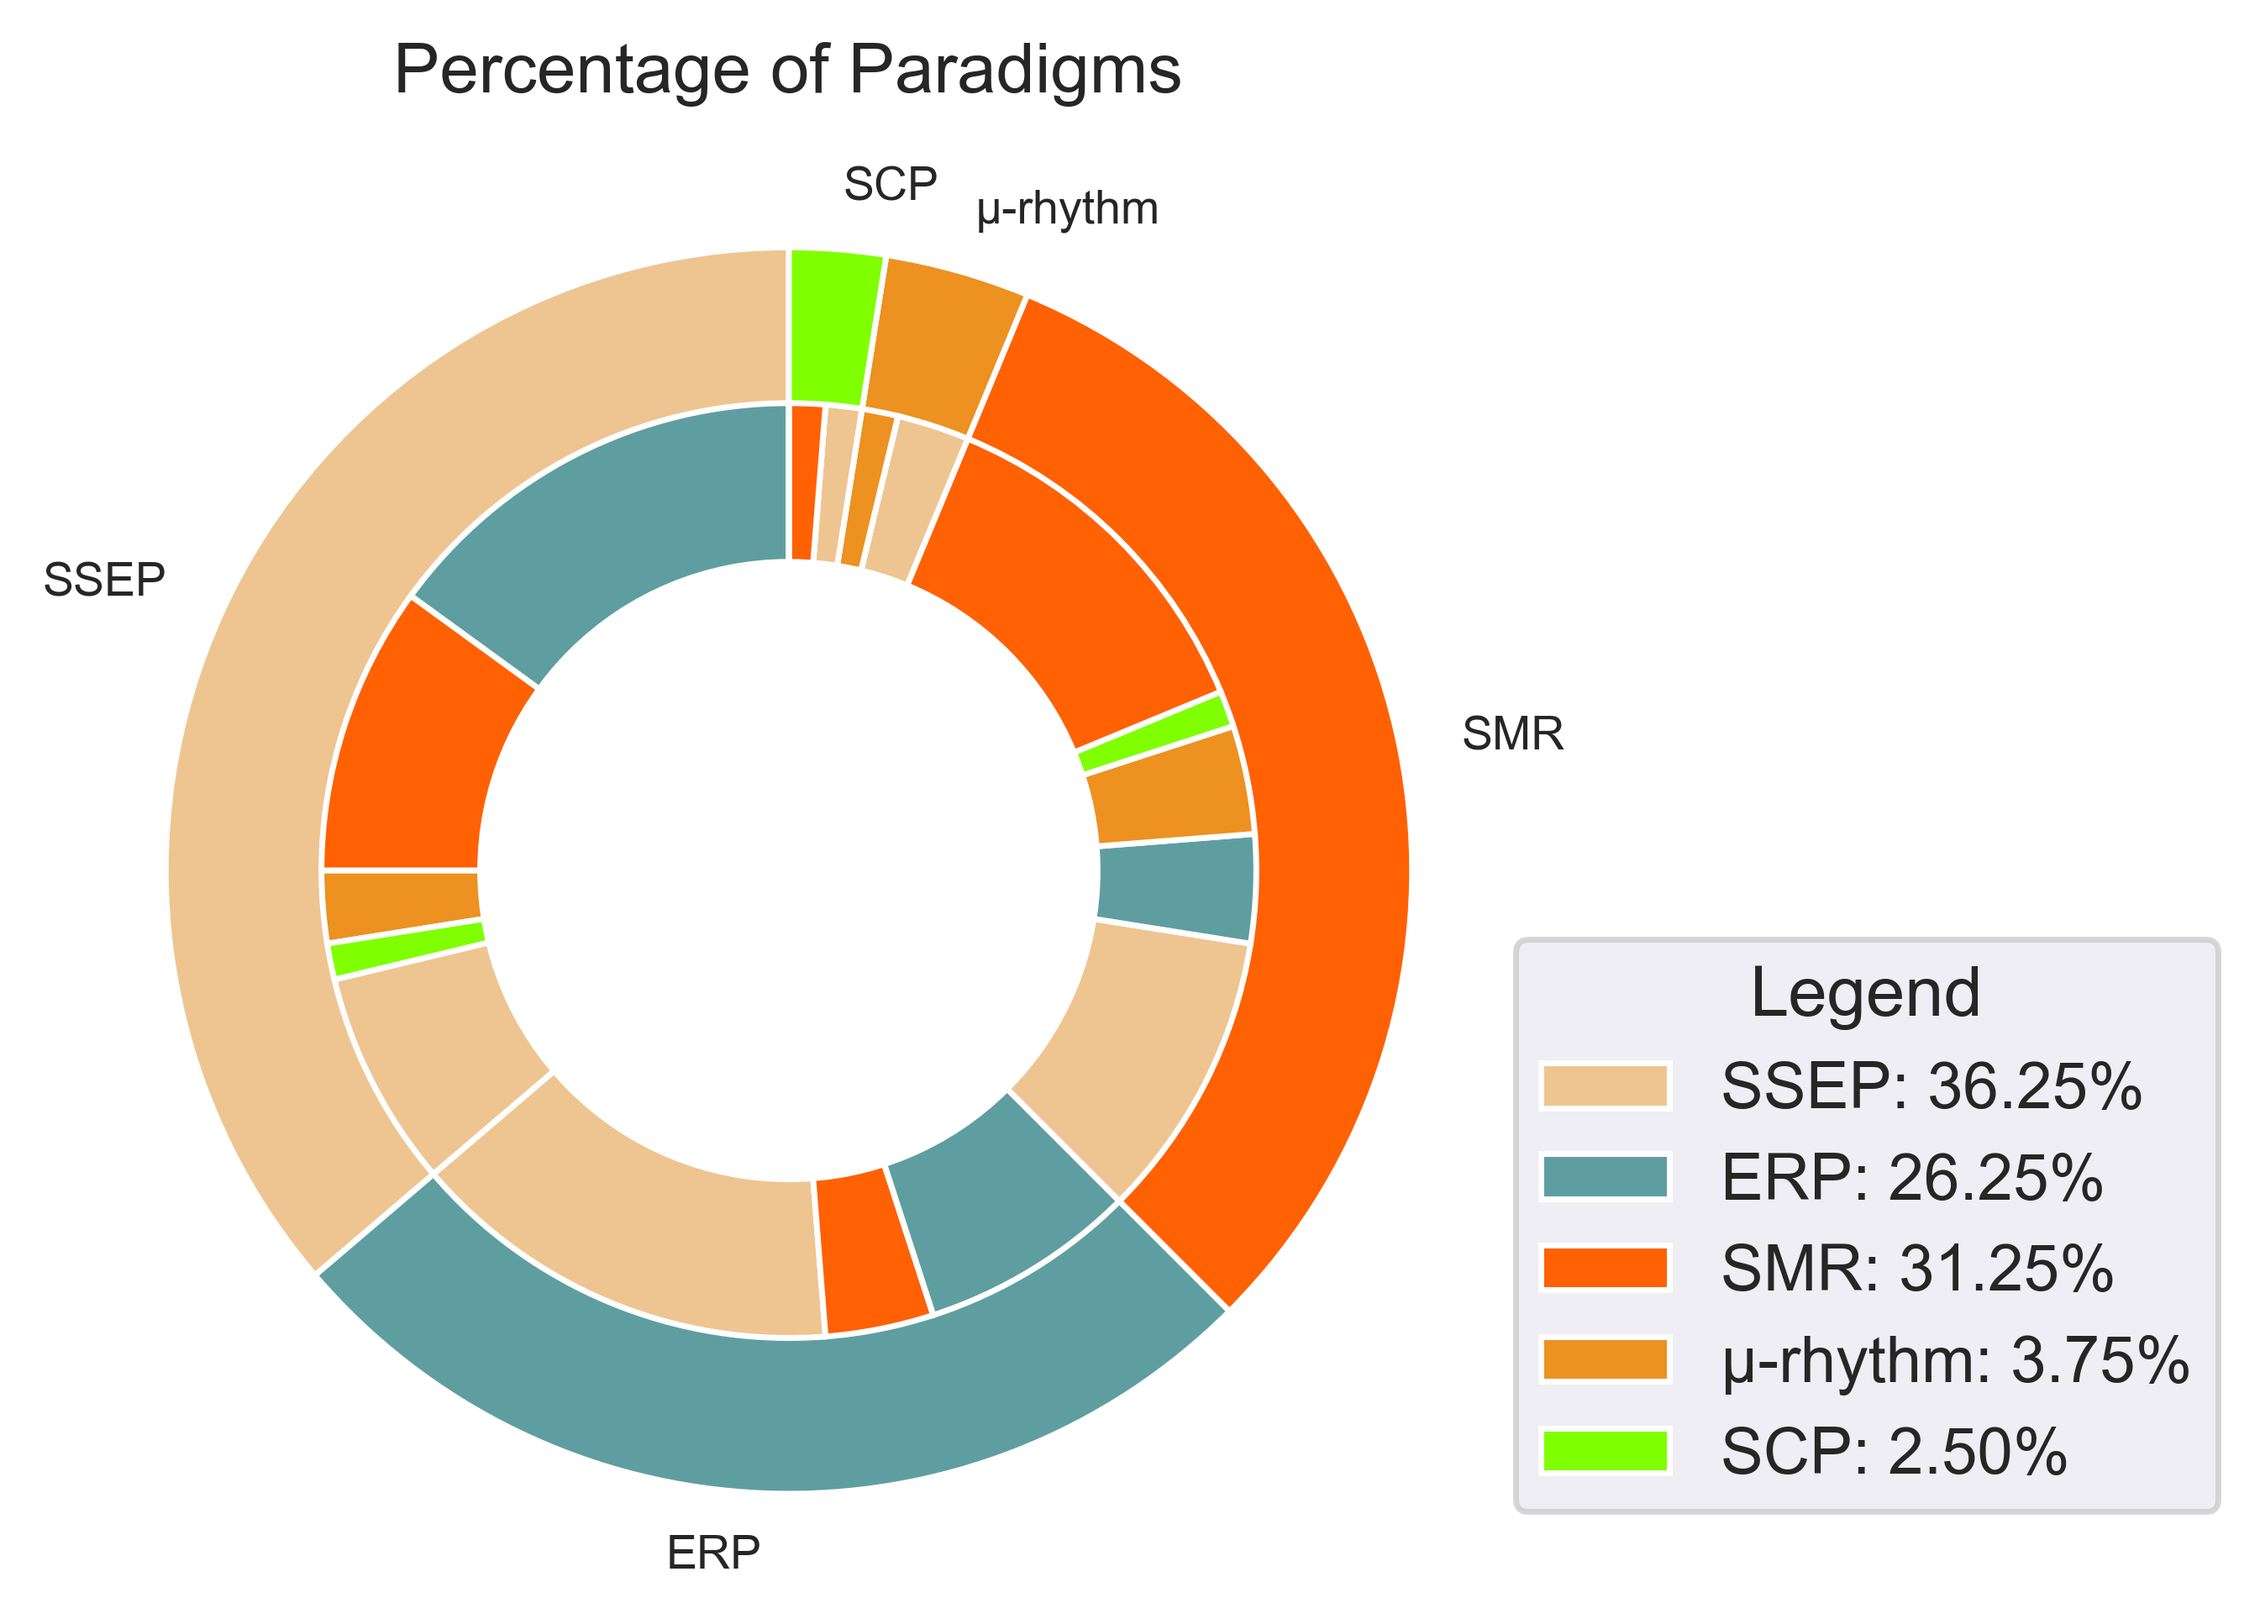
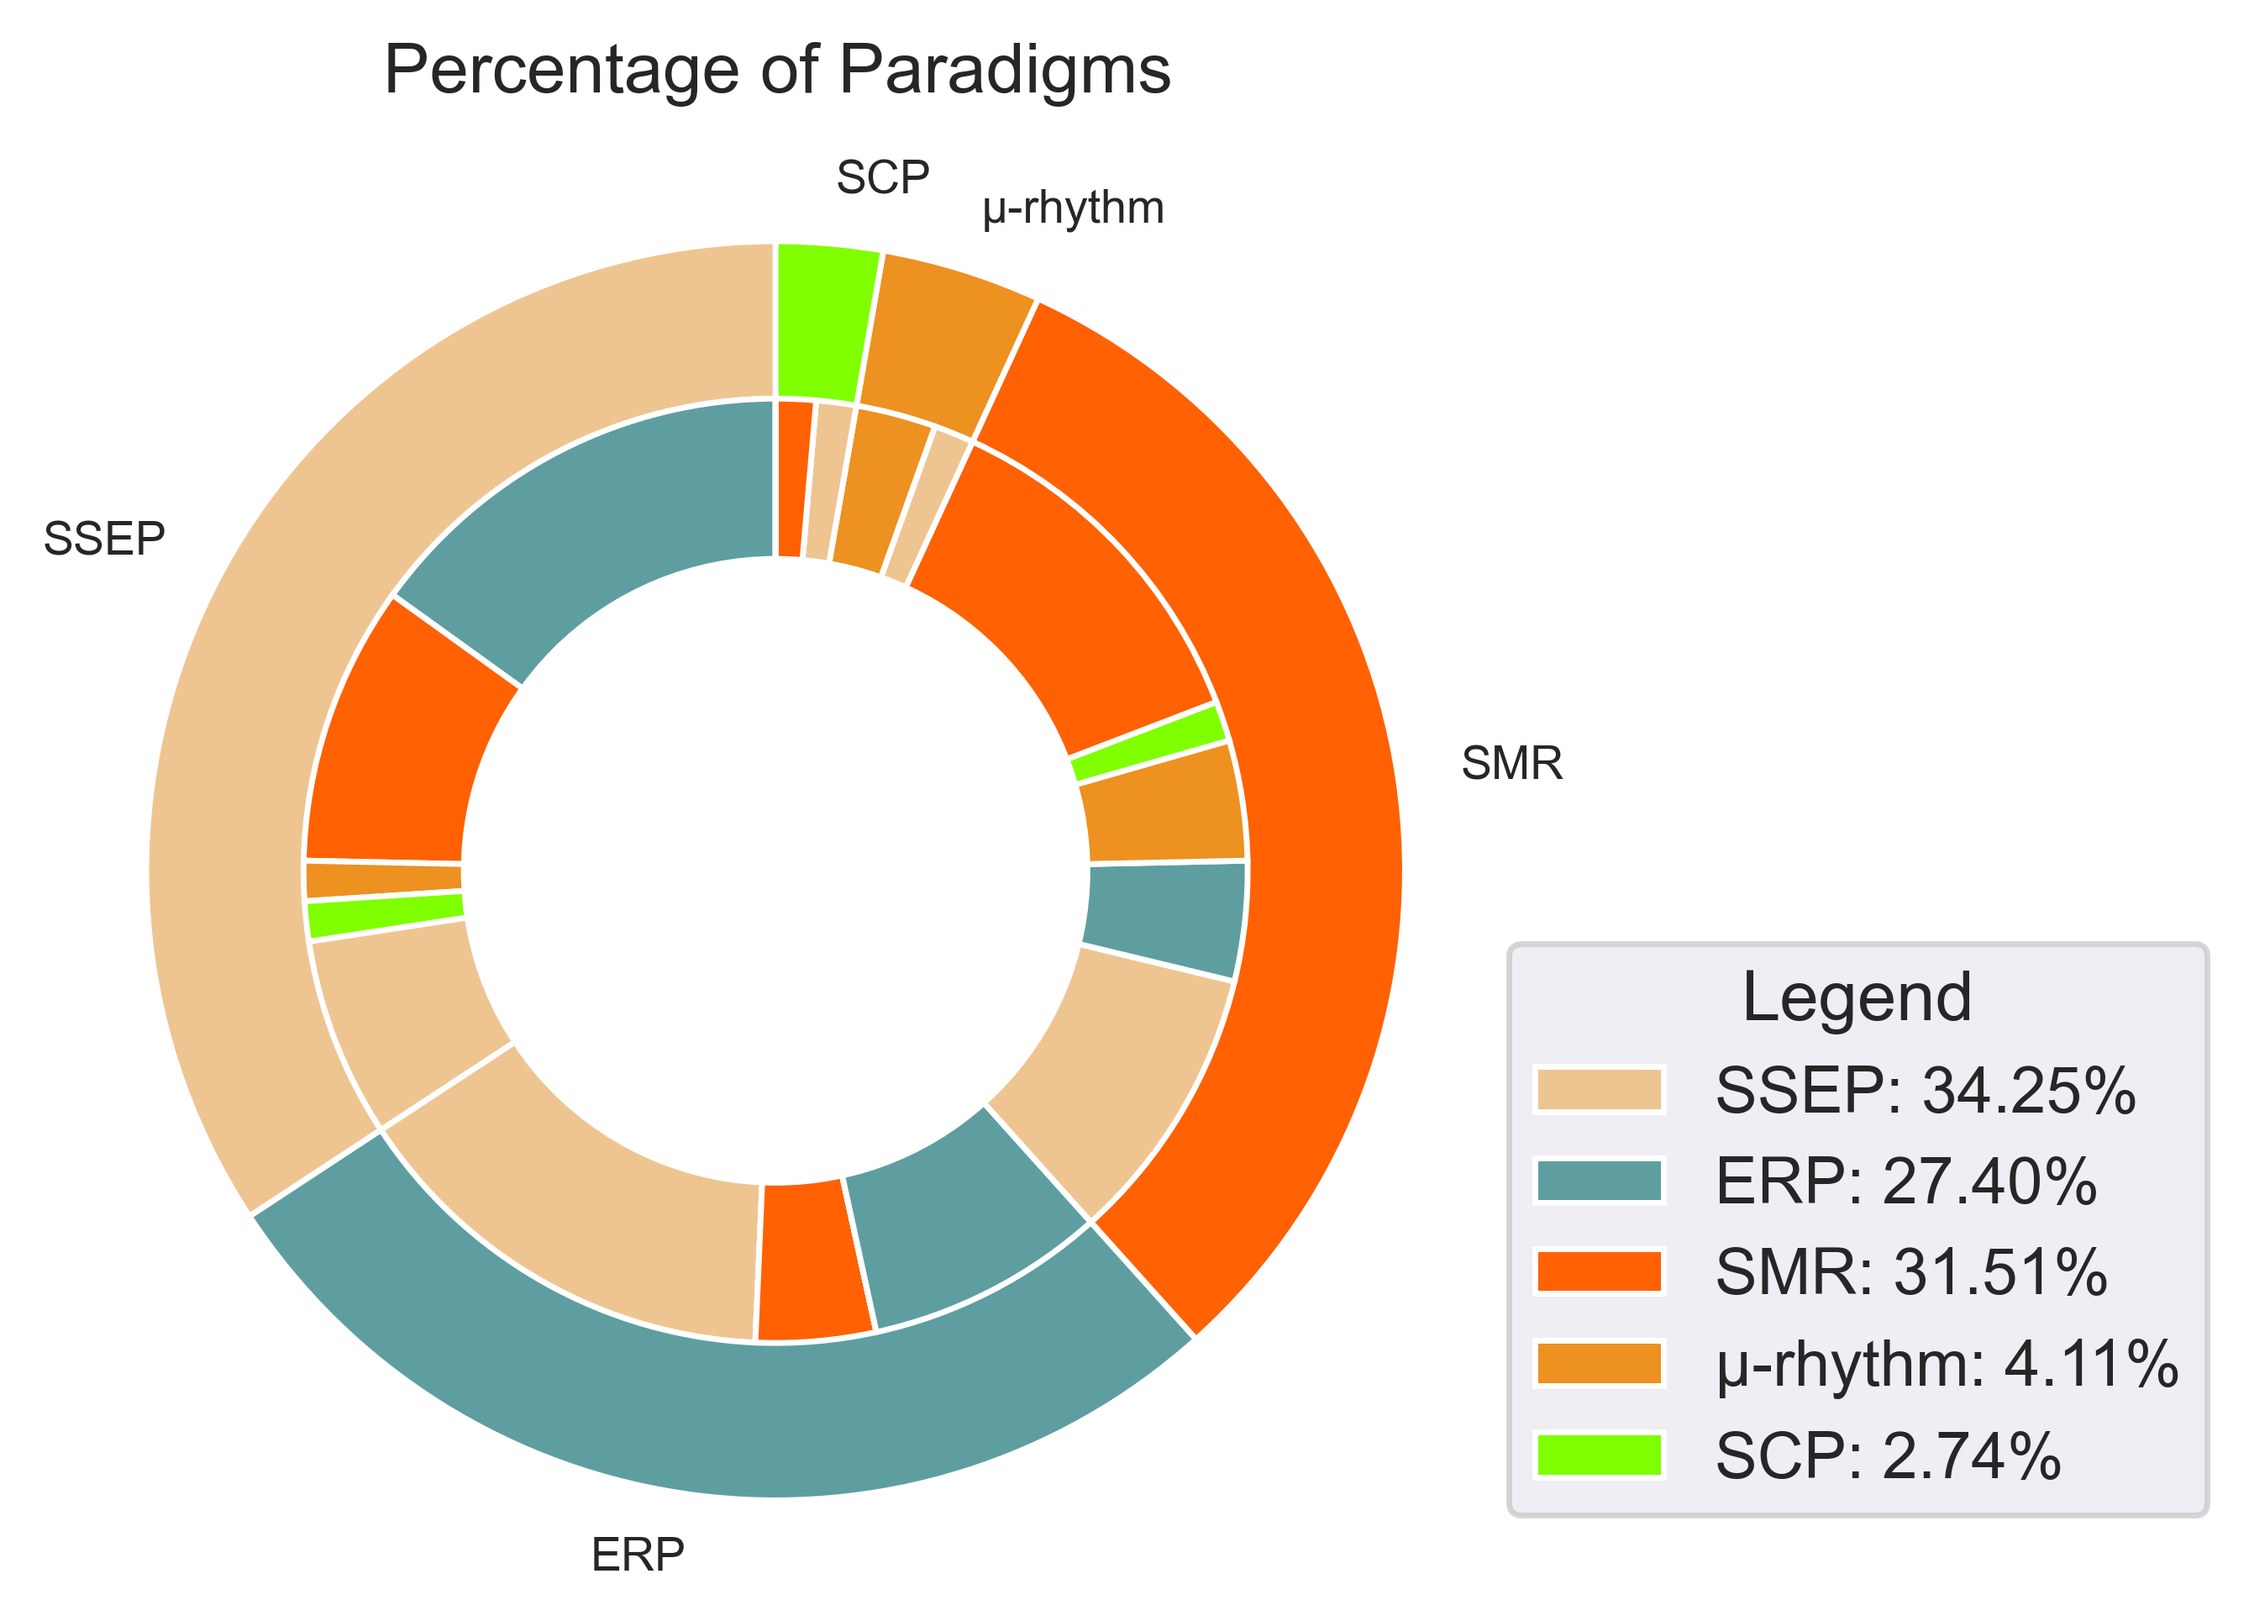
Included age range overlap graph

diff --git a/dataframe_stats.py b/dataframe_stats.py
@@ -47,16 +47,7 @@ for i, name in enumerate(names_lbls):
     #first appearence
     for _, row in df.iterrows(): 
         temp = row[name]        
-        # <<<< solve problem with any
-        # <<<< indiv names are being found in compounded (indiv,indiv)
-        #https://note.nkmk.me/en/python-str-compare/#:~:text=re.fullmatch()-,Exact%20match%20(equality%20comparison)%3A%20%3D%3D%20%2C%20!%3D,are%20not%2C%20False%20is%20returned.&text=It%20is%20case%2Dsensitive%2C%20and,by%20other%20operators%20and%20methods.
-        # if not(any(temp in n for n in names_feat[i])): names_feat[i].append(temp)
-        # print(temp)
-        
         if not(any(re.fullmatch(temp, n) for n in names_feat[i])): names_feat[i].append(temp)
-        print(temp)
-        
-    
     #for every feature name, count how many
     for f in names_feat[i]:
         total_feat[i].append(int(sum([row['UN_SYS'] for _, row in df.iterrows() if(row[name] == f and int(row['UN_SYS']))])))
@@ -75,7 +66,7 @@ def pr_v(vals, ct_str):
     for val, ct in zip(vals, ct_str):
         print(">> {:2d}: ({:.2f}%) {}".format(val, pt(val), ct))
         tots += val
-    print("<< {}: Sum>>".format(tots))
+    # print("<< {}: Sum>>".format(tots))
 
 print("------------\n>> {0}: TOTAL NUMBER OF SYSTEMS\n".format(tot_sys))
 for tots, names in zip(total_feat, names_feat):
@@ -94,10 +85,10 @@ idx_DivIn = [[counter for counter, value in enumerate(np.array(df['_Div_input'])
              [counter for counter, value in enumerate(np.array(df['_Div_input'])) if value == 'Homogeneous']]
 idx_MeStr = [[counter for counter, value in enumerate(np.array(df['_Mental_str'])) if value == 'Selective Attention'],
              [counter for counter, value in enumerate(np.array(df['_Mental_str'])) if value == 'Operant Conditioning'],
-             [counter for counter, value in enumerate(np.array(df['_Mental_str'])) if value == 'Operant Conditioning & Selective Attention']]
+             [counter for counter, value in enumerate(np.array(df['_Mental_str'])) if value == 'Operant Conditioning,Selective Attention']]
 idx_MeStr = [[counter for counter, value in enumerate(np.array(df['_Mental_str'])) if value == 'Selective Attention'],
              [counter for counter, value in enumerate(np.array(df['_Mental_str'])) if value == 'Operant Conditioning'],
-             [counter for counter, value in enumerate(np.array(df['_Mental_str'])) if value == 'Operant Conditioning & Selective Attention']]
+             [counter for counter, value in enumerate(np.array(df['_Mental_str'])) if value == 'Operant Conditioning,Selective Attention']]
 idx_het_acc = list(set.intersection(set(idx_DivIn[0]), set(idx_acc)))
 idx_hom_acc = list(set.intersection(set(idx_DivIn[1]), set(idx_acc)))
 idx_age_single = list(set.intersection(set(idx_age), set(idx_age_), set(idx_acc)))
@@ -111,14 +102,15 @@ idx_sel_opr_acc = list(set.intersection(set(idx_MeStr[2]), set(idx_acc)))
 ##Combination of Brain Signals
 comb_parad = np.zeros([5,6]).astype(int)
 idx = {'SSEP':0, 'ERP':1, 'SMR':2, 'mu':3, 'SCP':4}
-for value in np.array(df['_Brain_sign']):
-    str_array = value.split(',')
-    for a, b in itertools.product(str_array, repeat = 2):
-        comb_parad[idx[a],idx[b]] += 1
+for _, row in df.iterrows():
+    if row['UN_SYS']:
+        str_array = row['_Brain_sign'].split(',')
+        for a, b in itertools.product(str_array, repeat = 2):
+            comb_parad[idx[a],idx[b]] += 1
 for c,x in enumerate(comb_parad):
     comb_parad[c,5] = (comb_parad[c,c]*2) - sum(comb_parad[c])
 comb_parad[3,2] = 0 #since all mu paradigms have SMR,
-comb_parad[3,5] = 1 #I'll disconsider them and explain on the paper
+comb_parad[3,5] = 2 #I'll disconsider them and explain on the paper
 print(comb_parad)
 
 ##Number of Div of Input
@@ -126,31 +118,36 @@ comb_div_input = np.zeros([2,2]).astype(int)
 idx_1 = {'Homogeneous':0, 'Heterogeneous':1}
 idx_2 = {'Single-Brain Approach':0, 'Multi-Brain Approach':1,
          'Multi-Physiological':2, 'External Input':3}
-for value in np.array(df['_Div_input_sp']):
-    if(idx_2[value]<2):
-        comb_div_input[idx_1['Homogeneous'], idx_2[value]%2] += 1
-    else:
-        comb_div_input[idx_1['Heterogeneous'], idx_2[value]%2] += 1
+for _, row in df.iterrows():
+    if row['UN_SYS']:
+        value = row['_Div_input_sp']
+        if(idx_2[value]<2):
+            comb_div_input[idx_1['Homogeneous'], idx_2[value]%2] += 1
+        else:
+            comb_div_input[idx_1['Heterogeneous'], idx_2[value]%2] += 1
 print(comb_div_input)
         
 ##Combination of Simtuli Modalities
 comb_stim_mod = np.zeros([4,5]).astype(int)
 idx = {'Visual':0, 'Tactile':1, 'Operant':2, 'Auditory':3}
-for value in np.array(df['_Stim_mod']):
-    str_array = value.split(',')
-    for a, b in itertools.product(str_array, repeat = 2):
-        comb_stim_mod[idx[a],idx[b]] += 1
+# for value in np.array(df['_Stim_mod']):
+for _, row in df.iterrows():
+    if row['UN_SYS']:
+        str_array = row['_Stim_mod'].split(',')
+        for a, b in itertools.product(str_array, repeat = 2):
+            comb_stim_mod[idx[a],idx[b]] += 1
 for c,x in enumerate(comb_stim_mod):
     comb_stim_mod[c,4] = (comb_stim_mod[c,c]*2) - sum(comb_stim_mod[c])
-# comb_parad[3,2] = 0 #since all mu paradigms have SMR,
-# comb_parad[3,5] = 1 #I'll disconsider them and explain on the paper
 print(comb_stim_mod)
 
 ##Number of Role of Operation
 comb_role_op = np.zeros([3]).astype(int)
 idx = {'Simultaneous':0, 'Sequential':1, 'Simultaneous,Sequential':2}
-for value in np.array(df['_Role_op']):
-    comb_role_op[idx[value]] += 1
+# for value in np.array(df['_Role_op']):
+for _, row in df.iterrows():
+    if row['UN_SYS']:
+        value = row['_Role_op']
+        comb_role_op[idx[value]] += 1
 print(comb_role_op)
 ###############################################################################
 ################################## FUNCTIONS ##################################
@@ -207,20 +204,20 @@ sns.set_style("whitegrid")
 plt.figure(figsize = (5,7), dpi =500)
 c = 1
 for _range in idx_age_range:
-    a = random.random()
+    a = 1.1*random.random()
     txt =  str(df['Pop_age'][_range])
     val1 = float(txt[0:df['Pop_age'][_range].index(' to ')] )
     val2 = float(txt[df['Pop_age'][_range].index(' to ') + 4:])
     plt.plot([val1, val2], [df['On_ACC'][_range], df['On_ACC'][_range]],
              '-', color = CLR[_range][1].hex_format(), linewidth = 3,
              alpha = 0.6)
-    if c%2 != 0:
+    if c%2 != 1:
         plt.annotate(str(c), (val2, df['On_ACC'][_range]),
-                     textcoords = "offset points", xytext = (3*(1+(1-a)),-1), ha = 'left',
+                     textcoords = "offset points", xytext = (3.5*(1+(1-a)),-1), ha = 'left',
                      fontsize = 4)
     else:
         plt.annotate(str(c), (val1, df['On_ACC'][_range]),
-                     textcoords = "offset points", xytext = (-3*(1+(1-a)),-1), ha = 'right',
+                     textcoords = "offset points", xytext = (-3.5*(1+(1-a)),-1), ha = 'right',
                      fontsize = 4)
     c += 1
 plt.legend(cite_lbl(idx_age_range), fontsize = 3.9, loc = "lower right")
@@ -243,9 +240,50 @@ for _range in idx_age_single:
                  textcoords = "offset points", xytext = (2,-1), ha = 'left',
                  fontsize = 4)
     
-plt.title("Age range vs. Accuracy")
-plt.ylabel("Accuracy [%]")
-plt.xlabel("Age [years]")
+plt.title("Age range vs. Accuracy", fontsize = 8)
+plt.ylabel("Accuracy [%]", fontsize = 6)
+plt.xlabel("Age [years]", fontsize = 6)
+# plt.yscale("log")
+plt.tick_params(size = 1, labelsize = 6)
+plt.show()
+#/**
+# * Age ranges overlap
+# */
+sns.set_style("whitegrid")
+fig, ax = plt.subplots(figsize = (8,1.2), dpi =500)
+c = 1
+for _range in idx_age_range:
+    a = 1.1*random.random()
+    txt =  str(df['Pop_age'][_range])
+    val1 = float(txt[0:df['Pop_age'][_range].index(' to ')] )
+    val2 = float(txt[df['Pop_age'][_range].index(' to ') + 4:])
+    plt.plot([val1, val2], [1, 1],
+             '-',
+             color = 'k',
+             linewidth = 15,
+             alpha = 0.1)
+plt.title("Age ranges overlap", fontsize = 10)
+plt.ylabel("", fontsize = 6)
+plt.xlabel("Age [years]", fontsize = 9)
+# plt.yscale("log")
+plt.tick_params(size = 1, labelsize = 9)
+plt.grid()
+# plt.axis("off")
+ax.spines['top'].set_visible(False)
+ax.spines['left'].set_visible(False)
+ax.spines['right'].set_visible(False)
+ax.spines['bottom'].set_visible(False)
+plt.tick_params(
+    axis='both',          # changes apply to the x-axis
+    which='both',      # both major and minor ticks are affected
+    bottom=False,      # ticks along the bottom edge are off
+    top=False,         # ticks along the top edge are off
+    # labelbottom=False, # labels along the bottom edge are off
+    left=False,
+    right=False,
+    labelleft=False)
+plt.ylim(0.999,1.001)
+plt.tight_layout()
 plt.show()
 ###############################################################################
 ################################# Violin plot #################################
@@ -523,7 +561,7 @@ data = comb_stim_mod
 ln = len(data[0])
 lnn = ln - 1
 
-offset = 10
+offset = 85
 main_lbl   = ['Visual', 'Tactile', 'Operant', 'Auditory']
 main_sizes = [data[i,i] for i in range(len(data))]
 main_colors= [CLR[i+offset][1].hex_format() for i in range(len(data))]
@@ -532,11 +570,6 @@ main_perc_lbl = []
 for c, elem in enumerate(main_sizes):
     main_perc_lbl.append(main_lbl[c] + ": " + "{:.2f}%".format((elem/sum(main_sizes)*100)))
 
-sub_lbl = ['ERP', 'SMR', 'µ-rhythm', 'SCP', 'self',    #SSEP
-           'SSEP', 'SMR', 'µ-rhythm', 'SCP', 'self',    #ERP
-           'SSEP', 'ERP', 'µ-rhythm', 'SCP', 'self',    #SMR
-           'SSEP', 'ERP', 'SMR', 'SCP', 'self',         #µ-rhythm
-           'SSEP', 'ERP', 'SMR', 'µ-rhythm', 'self']    #SCP
 
 sub_size = [data[a,b] for a,b in itertools.product(range(ln), repeat = 2) if a!=b and a<lnn]
 sub_colors = [CLR[b+offset][1].hex_format() if b<lnn else CLR[a+offset][1].hex_format() for a,b in itertools.product(range(ln), repeat = 2) if a!=b and a<lnn]
